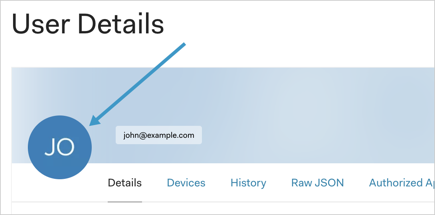
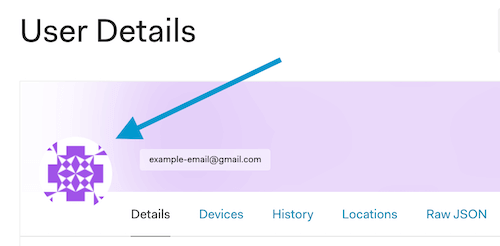
Revert "Updated to account for removal of user profile locations tab in dashboard"

diff --git a/articles/user-profile/index.md b/articles/user-profile/index.md
@@ -47,12 +47,13 @@ The User Details page will show `pending` when a user is first created until the
 
 The [Users](${manage_url}/#/users) page lists the users who are associated with your apps. To open a particular user, click the user profile picture or name in the "Name" column. The User Details page will open and display information for that user.
 
-The User Details page has links for four tabs:
+The User Details page has links for five tabs:
 
 1. Details
 2. Devices
 3. History
-4. Raw JSON
+4. Locations
+5. Raw JSON
 
 #### User Details: Details
 
@@ -81,6 +82,10 @@ The logs include information about:
 * The originating IP addresses for the events
 * Where the events originated
 
+#### User Details: Locations
+
+The Locations tab displays a map with pins indicating the user's location(s) when they logged in to the apps.
+
 #### User Details: Raw JSON
 
 The Raw JSON tab displays all of the information contained on the user's profile in JSON format so you can quickly view all of the available information about the user.
@@ -93,6 +98,8 @@ If you need to log in to your app as a user, see everything exactly as the user 
 
 Navigate to the [Users](${manage_url}/#/users) page in the Dashboard. Select the user you want to impersonate from the list. When the User Details page opens, click the "Sign in as User" button. Select the app you want to log into from the dropdown menu.
 
+![Impersonate a User](/media/articles/user-profile/user2.png)
+
 ::: panel I can't see the button
 Can't see the button? The following conditions are required for the button display:
 - The applications registered in the tenant must have at least one callback URL listed.
@@ -100,6 +107,8 @@ Can't see the button? The following conditions are required for the button displ
 :::
 
 A popup will display the URL to use to impersonate the user. You can copy the URL into the clipboard (white button) or open the URL in a separate browser tab/window (blue button).
+
+![Impersonate a User](/media/articles/user-profile/user3.png)
 
 ::: panel Impersonation API
 You can also use the [Impersonation API](/api/authentication/reference#impersonation) to impersonate a user. The API generates a link that you can use once to log in as a specific user. To distinguish between real logins and impersonation logins, the profile of the impersonated user will contain additional `impersonated` and `impersonator` properties.
@@ -119,21 +128,21 @@ If a blocked user tries to access an application, they will see the error messag
 
 To unblock a user, navigate to the [Users](${manage_url}/#/users) page in the Dashboard. Click the name of the user you want to unblock. When the User Details page opens, click the **Actions** button. Select **Unblock User** from the dropdown menu.
 
-![Unblock a User](/media/articles/user-profile/user5.png)
+![Unblock a User](/media/articles/user-profile/user4.png)
 
 ### Delete a user
 
 To permanently delete a user, navigate to the [Users](${manage_url}/#/users) page in the Dashboard. Click the name of the user you want to delete. When the User Details page opens, click the **Actions** button. Select **Delete User** from the dropdown menu.
 
-![Delete a User](/media/articles/user-profile/user6.png)
+![Delete a User](/media/articles/user-profile/user4.png)
 
 A popup will warn you that the action cannot be undone and prompt you to confirm that you want to delete the user. Click the **Yes, Delete It** button to confirm. This will permanently delete the user.
 
 ## Manage users using the Management API
 
-Alternatively, you can retrieve, create, update, or delete users using our [Management API](/api/management/v2#!/Users/get_users).
+Alternatively, you can retrieve, create, update or delete users using our [Management API](/api/management/v2#!/Users/get_users).
 
-First, you have to generate an Access Token to call the Management API. For information on how to do that, see [How to Get an Access Token for the Management API](/api/management/v2/tokens).
+First, you have to generate an Access Token to call the Management API. For information on how to do that see [How to Get an Access Token for the Management API](/api/management/v2/tokens).
 
 Instead of making the HTTP calls directly, and depending on the platform you use, you can use one of our SDKs. For a list of available SDKs, refer to [the SDKs section of our Support Matrix](/support/matrix#sdks).
 
@@ -141,11 +150,11 @@ Instead of making the HTTP calls directly, and depending on the platform you use
 
 Inside a single Auth0 tenant the users are shared between applications. The idea here is that the all the applications in a single tenant will usually belong to the same app.
 
-For total separation, you can create a new tenant. To do this, click on tenant name on the top right of the dashboard and select **+ Create Tenant** . If you have multiple tenants, you can easily switch between them from the tenants menu.
+For total separation you can create a new tenant. To do this click on tenant name on top right of the dashboard and select **+ Create Tenant** . If you have multiple tenants, you can easily switch between them from the tenants menu.
 
-If you need to restrict some users to certain applications, you can use rules. Inside a rule, the `context.clientName` and `context.clientID` variables are available to check which application the user is using for login. See [this rule for an example](https://github.com/auth0/rules/blob/master/rules/simple-user-whitelist-for-app.md).
+If you need to restrict some users to certain applications you can use rules. Inside a rule, the `context.clientName` and `context.clientID` variables are available to check which application the user is using for login. See [this rule for an example](https://github.com/auth0/rules/blob/master/rules/simple-user-whitelist-for-app.md).
 
-You can also restrict users from applications by configuring a new connection and only giving access to a specific application. To enable application access for a connection, go to the the **Settings** section for a connection and click on the **Applications** tab; here you can enable/disable any application.
+You can also restrict users from applications by configuring a new connection and only giving access to a specific application. To enable application access for a connection go to the the **Settings** section for a connection and click on the **Applications** tab, here you can enable/disable any application.
 
 ## Keep reading
 
